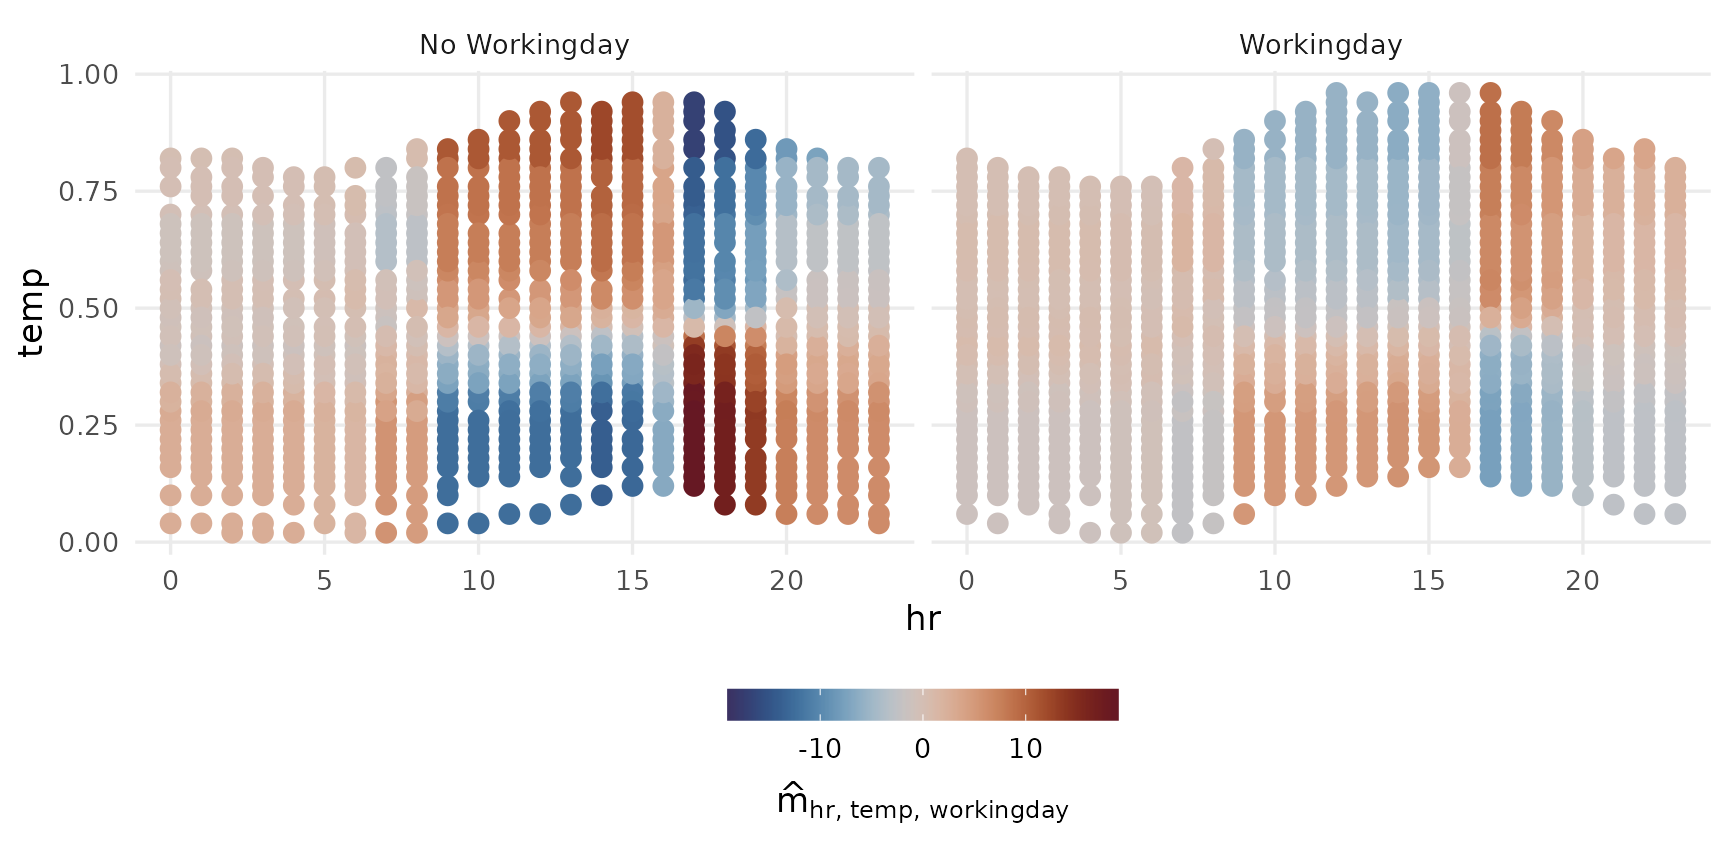
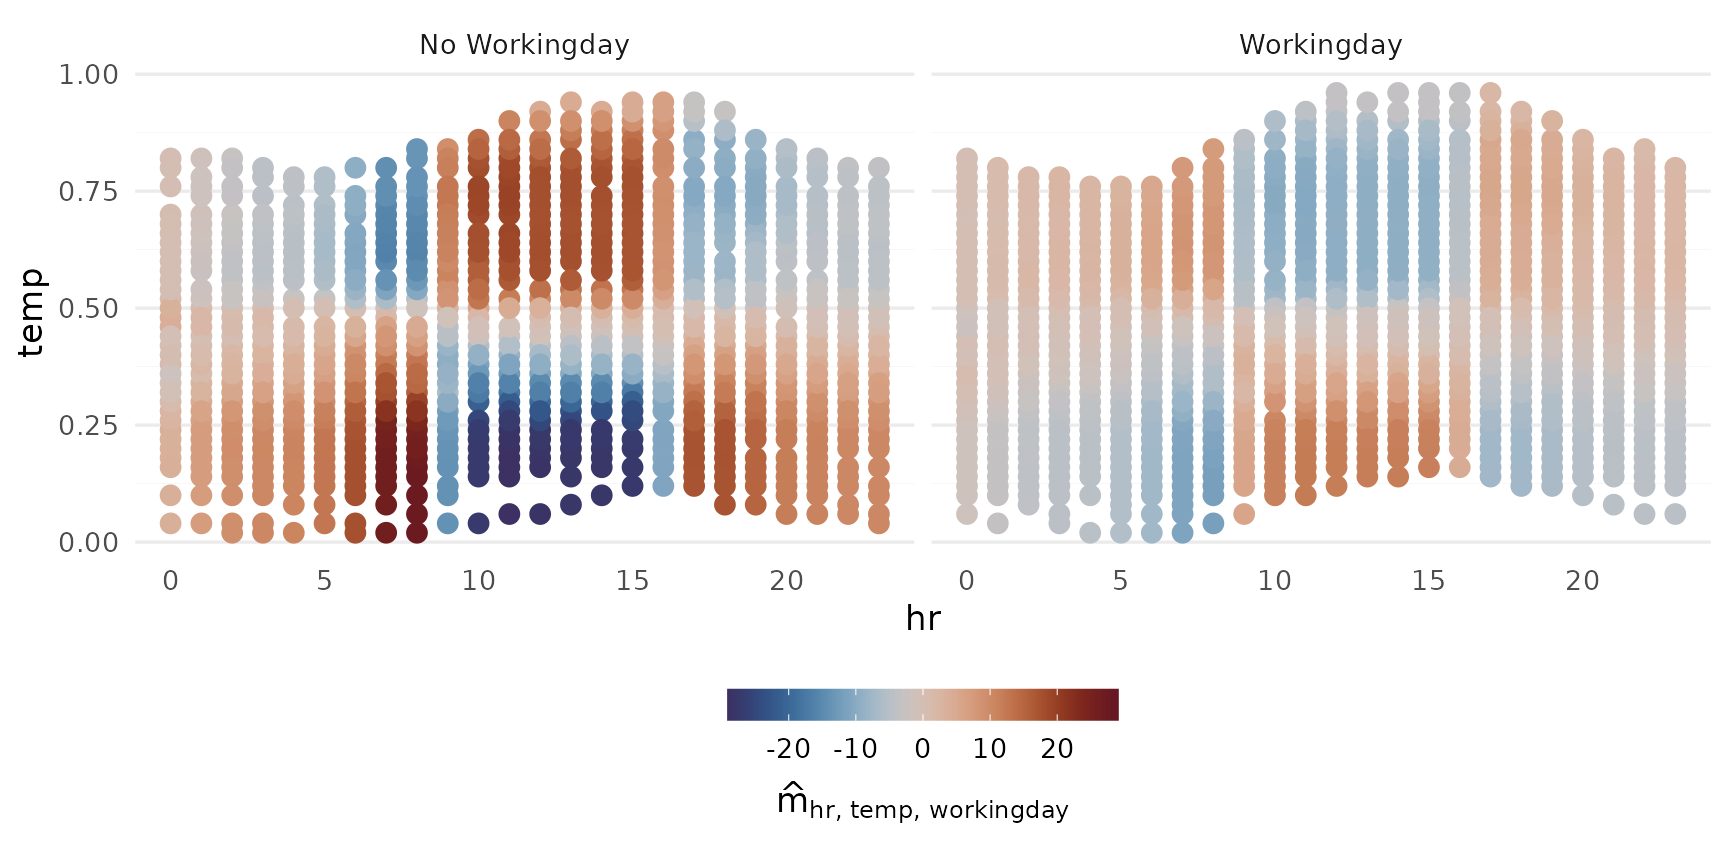
Deploying to gh-pages from @ PlantedML/glex@350e0cbe3e883f785f212828ad2df5d293eec9a5 🚀

diff --git a/reference/theme_glex.html b/reference/theme_glex.html
@@ -1,0 +1,131 @@
+<!DOCTYPE html>
+<!-- Generated by pkgdown: do not edit by hand --><html lang="en"><head><meta http-equiv="Content-Type" content="text/html; charset=UTF-8"><meta charset="utf-8"><meta http-equiv="X-UA-Compatible" content="IE=edge"><meta name="viewport" content="width=device-width, initial-scale=1, shrink-to-fit=no"><meta name="description" content="This is a slight variation of ggplot2::theme_minimal() with increased font size."><title>A ggplot2 theme for glex plots — theme_glex • glex</title><script src="../deps/jquery-3.6.0/jquery-3.6.0.min.js"></script><meta name="viewport" content="width=device-width, initial-scale=1, shrink-to-fit=no"><link href="../deps/bootstrap-5.2.2/bootstrap.min.css" rel="stylesheet"><script src="../deps/bootstrap-5.2.2/bootstrap.bundle.min.js"></script><!-- Font Awesome icons --><link rel="stylesheet" href="https://cdnjs.cloudflare.com/ajax/libs/font-awesome/5.12.1/css/all.min.css" integrity="sha256-mmgLkCYLUQbXn0B1SRqzHar6dCnv9oZFPEC1g1cwlkk=" crossorigin="anonymous"><link rel="stylesheet" href="https://cdnjs.cloudflare.com/ajax/libs/font-awesome/5.12.1/css/v4-shims.min.css" integrity="sha256-wZjR52fzng1pJHwx4aV2AO3yyTOXrcDW7jBpJtTwVxw=" crossorigin="anonymous"><!-- bootstrap-toc --><script src="https://cdn.jsdelivr.net/gh/afeld/bootstrap-toc@v1.0.1/dist/bootstrap-toc.min.js" integrity="sha256-4veVQbu7//Lk5TSmc7YV48MxtMy98e26cf5MrgZYnwo=" crossorigin="anonymous"></script><!-- headroom.js --><script src="https://cdnjs.cloudflare.com/ajax/libs/headroom/0.11.0/headroom.min.js" integrity="sha256-AsUX4SJE1+yuDu5+mAVzJbuYNPHj/WroHuZ8Ir/CkE0=" crossorigin="anonymous"></script><script src="https://cdnjs.cloudflare.com/ajax/libs/headroom/0.11.0/jQuery.headroom.min.js" integrity="sha256-ZX/yNShbjqsohH1k95liqY9Gd8uOiE1S4vZc+9KQ1K4=" crossorigin="anonymous"></script><!-- clipboard.js --><script src="https://cdnjs.cloudflare.com/ajax/libs/clipboard.js/2.0.6/clipboard.min.js" integrity="sha256-inc5kl9MA1hkeYUt+EC3BhlIgyp/2jDIyBLS6k3UxPI=" crossorigin="anonymous"></script><!-- search --><script src="https://cdnjs.cloudflare.com/ajax/libs/fuse.js/6.4.6/fuse.js" integrity="sha512-zv6Ywkjyktsohkbp9bb45V6tEMoWhzFzXis+LrMehmJZZSys19Yxf1dopHx7WzIKxr5tK2dVcYmaCk2uqdjF4A==" crossorigin="anonymous"></script><script src="https://cdnjs.cloudflare.com/ajax/libs/autocomplete.js/0.38.0/autocomplete.jquery.min.js" integrity="sha512-GU9ayf+66Xx2TmpxqJpliWbT5PiGYxpaG8rfnBEk1LL8l1KGkRShhngwdXK1UgqhAzWpZHSiYPc09/NwDQIGyg==" crossorigin="anonymous"></script><script src="https://cdnjs.cloudflare.com/ajax/libs/mark.js/8.11.1/mark.min.js" integrity="sha512-5CYOlHXGh6QpOFA/TeTylKLWfB3ftPsde7AnmhuitiTX4K5SqCLBeKro6sPS8ilsz1Q4NRx3v8Ko2IBiszzdww==" crossorigin="anonymous"></script><!-- pkgdown --><script src="../pkgdown.js"></script><meta property="og:title" content="A ggplot2 theme for glex plots — theme_glex"><meta property="og:description" content="This is a slight variation of ggplot2::theme_minimal() with increased font size."><!-- mathjax --><script src="https://cdnjs.cloudflare.com/ajax/libs/mathjax/2.7.5/MathJax.js" integrity="sha256-nvJJv9wWKEm88qvoQl9ekL2J+k/RWIsaSScxxlsrv8k=" crossorigin="anonymous"></script><script src="https://cdnjs.cloudflare.com/ajax/libs/mathjax/2.7.5/config/TeX-AMS-MML_HTMLorMML.js" integrity="sha256-84DKXVJXs0/F8OTMzX4UR909+jtl4G7SPypPavF+GfA=" crossorigin="anonymous"></script><!--[if lt IE 9]>
+<script src="https://oss.maxcdn.com/html5shiv/3.7.3/html5shiv.min.js"></script>
+<script src="https://oss.maxcdn.com/respond/1.4.2/respond.min.js"></script>
+<![endif]--></head><body>
+    <a href="#main" class="visually-hidden-focusable">Skip to contents</a>
+    
+
+    <nav class="navbar fixed-top navbar-light navbar-expand-lg bg-light"><div class="container">
+    
+    <a class="navbar-brand me-2" href="../index.html">glex</a>
+
+    <small class="nav-text text-muted me-auto" data-bs-toggle="tooltip" data-bs-placement="bottom" title="">0.3.0.9000</small>
+
+    
+    <button class="navbar-toggler" type="button" data-bs-toggle="collapse" data-bs-target="#navbar" aria-controls="navbar" aria-expanded="false" aria-label="Toggle navigation">
+      <span class="navbar-toggler-icon"></span>
+    </button>
+
+    <div id="navbar" class="collapse navbar-collapse ms-3">
+      <ul class="navbar-nav me-auto"><li class="nav-item">
+  <a class="nav-link" href="../articles/glex.html">Get started</a>
+</li>
+<li class="active nav-item">
+  <a class="nav-link" href="../reference/index.html">Reference</a>
+</li>
+<li class="nav-item dropdown">
+  <a href="#" class="nav-link dropdown-toggle" data-bs-toggle="dropdown" role="button" aria-expanded="false" aria-haspopup="true" id="dropdown-articles">Articles</a>
+  <div class="dropdown-menu" aria-labelledby="dropdown-articles">
+    <a class="dropdown-item" href="../articles/Bikesharing-Decomposition-rpf.html">Bikesharing: Decomposition with Random Planted Forest</a>
+  </div>
+</li>
+<li class="nav-item">
+  <a class="nav-link" href="../news/index.html">Changelog</a>
+</li>
+      </ul><form class="form-inline my-2 my-lg-0" role="search">
+        <input type="search" class="form-control me-sm-2" aria-label="Toggle navigation" name="search-input" data-search-index="../search.json" id="search-input" placeholder="Search for" autocomplete="off"></form>
+
+      <ul class="navbar-nav"><li class="nav-item">
+  <a class="external-link nav-link" href="https://github.com/PlantedML/glex/" aria-label="github">
+    <span class="fab fa fab fa-github fa-lg"></span>
+     
+  </a>
+</li>
+      </ul></div>
+
+    
+  </div>
+</nav><div class="container template-reference-topic">
+<div class="row">
+  <main id="main" class="col-md-9"><div class="page-header">
+      <img src="" class="logo" alt=""><h1>A ggplot2 theme for glex plots</h1>
+      <small class="dont-index">Source: <a href="https://github.com/PlantedML/glex/blob/HEAD/R/theme_glex.R" class="external-link"><code>R/theme_glex.R</code></a></small>
+      <div class="d-none name"><code>theme_glex.Rd</code></div>
+    </div>
+
+    <div class="ref-description section level2">
+    <p>This is a slight variation of <code><a href="https://ggplot2.tidyverse.org/reference/ggtheme.html" class="external-link">ggplot2::theme_minimal()</a></code> with increased font size.</p>
+    </div>
+
+    <div class="section level2">
+    <h2 id="ref-usage">Usage<a class="anchor" aria-label="anchor" href="#ref-usage"></a></h2>
+    <div class="sourceCode"><pre class="sourceCode r"><code><span><span class="fu">theme_glex</span><span class="op">(</span></span>
+<span>  base_size <span class="op">=</span> <span class="fl">13</span>,</span>
+<span>  base_family <span class="op">=</span> <span class="st">""</span>,</span>
+<span>  base_line_size <span class="op">=</span> <span class="va">base_size</span><span class="op">/</span><span class="fl">22</span>,</span>
+<span>  base_rect_size <span class="op">=</span> <span class="va">base_size</span><span class="op">/</span><span class="fl">22</span>,</span>
+<span>  grid_x <span class="op">=</span> <span class="cn">TRUE</span>,</span>
+<span>  grid_y <span class="op">=</span> <span class="cn">FALSE</span></span>
+<span><span class="op">)</span></span></code></pre></div>
+    </div>
+
+    <div class="section level2">
+    <h2 id="arguments">Arguments<a class="anchor" aria-label="anchor" href="#arguments"></a></h2>
+    <dl><dt>base_size</dt>
+<dd><p>(<code>13</code>) Base font size, given in pts.</p></dd>
+
+
+<dt>base_family</dt>
+<dd><p>(<code>""</code>) Base font family</p></dd>
+
+
+<dt>base_line_size, base_rect_size</dt>
+<dd><p>(<code>base_size / 22</code>) Base size for line and rect elements</p></dd>
+
+
+<dt>grid_x</dt>
+<dd><p>(<code>TRUE</code>) Display horizontal grid lines?</p></dd>
+
+
+<dt>grid_y</dt>
+<dd><p>(<code>FALSE</code>) Display vertical grid lines?</p></dd>
+
+</dl></div>
+    <div class="section level2">
+    <h2 id="value">Value<a class="anchor" aria-label="anchor" href="#value"></a></h2>
+    
+
+<p>A <code>ggplot2</code> theme object</p>
+    </div>
+
+    <div class="section level2">
+    <h2 id="ref-examples">Examples<a class="anchor" aria-label="anchor" href="#ref-examples"></a></h2>
+    <div class="sourceCode"><pre class="sourceCode r"><code><span class="r-in"><span><span class="kw"><a href="https://rdrr.io/r/base/library.html" class="external-link">library</a></span><span class="op">(</span><span class="va"><a href="https://ggplot2.tidyverse.org" class="external-link">ggplot2</a></span><span class="op">)</span></span></span>
+<span class="r-in"><span></span></span>
+<span class="r-in"><span><span class="fu"><a href="https://ggplot2.tidyverse.org/reference/ggplot.html" class="external-link">ggplot</a></span><span class="op">(</span><span class="va">mtcars</span>, <span class="fu"><a href="https://ggplot2.tidyverse.org/reference/aes.html" class="external-link">aes</a></span><span class="op">(</span><span class="va">wt</span>, <span class="va">mpg</span><span class="op">)</span><span class="op">)</span> <span class="op">+</span></span></span>
+<span class="r-in"><span>  <span class="fu"><a href="https://ggplot2.tidyverse.org/reference/geom_point.html" class="external-link">geom_point</a></span><span class="op">(</span><span class="op">)</span> <span class="op">+</span></span></span>
+<span class="r-in"><span>  <span class="fu">theme_glex</span><span class="op">(</span><span class="op">)</span></span></span>
+<span class="r-plt img"><img src="theme_glex-1.png" alt="" width="700" height="433"></span>
+</code></pre></div>
+    </div>
+  </main><aside class="col-md-3"><nav id="toc"><h2>On this page</h2>
+    </nav></aside></div>
+
+
+    <footer><div class="pkgdown-footer-left">
+  <p></p><p>Developed by Marvin N. Wright, Joseph Theo Meyer, Munir Hiabu, Lukas Burk.</p>
+</div>
+
+<div class="pkgdown-footer-right">
+  <p></p><p>Site built with <a href="https://pkgdown.r-lib.org/" class="external-link">pkgdown</a> 2.0.7.</p>
+</div>
+
+    </footer></div>
+
+  
+
+  
+
+  </body></html>
+

diff --git a/articles/Bikesharing-Decomposition-rpf.html b/articles/Bikesharing-Decomposition-rpf.html
@@ -90,15 +90,7 @@
 <span><span class="kw"><a href="https://rdrr.io/r/base/library.html" class="external-link">library</a></span><span class="op">(</span><span class="va"><a href="https://www.statlearning.com" class="external-link">ISLR2</a></span><span class="op">)</span> <span class="co"># For Bikeshare dataset</span></span>
 <span><span class="kw"><a href="https://rdrr.io/r/base/library.html" class="external-link">library</a></span><span class="op">(</span><span class="va"><a href="https://ggplot2.tidyverse.org" class="external-link">ggplot2</a></span><span class="op">)</span></span>
 <span><span class="kw"><a href="https://rdrr.io/r/base/library.html" class="external-link">library</a></span><span class="op">(</span><span class="va"><a href="https://patchwork.data-imaginist.com" class="external-link">patchwork</a></span><span class="op">)</span> <span class="co"># To arrange plots</span></span>
-<span><span class="fu"><a href="https://rdrr.io/r/base/Random.html" class="external-link">set.seed</a></span><span class="op">(</span><span class="fl">2023</span><span class="op">)</span></span>
-<span></span>
-<span><span class="fu"><a href="https://ggplot2.tidyverse.org/reference/theme_get.html" class="external-link">theme_set</a></span><span class="op">(</span></span>
-<span>  <span class="fu"><a href="https://ggplot2.tidyverse.org/reference/ggtheme.html" class="external-link">theme_minimal</a></span><span class="op">(</span>base_size <span class="op">=</span> <span class="fl">13</span><span class="op">)</span> <span class="op">+</span></span>
-<span>  <span class="fu"><a href="https://ggplot2.tidyverse.org/reference/theme.html" class="external-link">theme</a></span><span class="op">(</span></span>
-<span>    panel.grid.minor.x <span class="op">=</span> <span class="fu"><a href="https://ggplot2.tidyverse.org/reference/element.html" class="external-link">element_blank</a></span><span class="op">(</span><span class="op">)</span>,</span>
-<span>    panel.grid.minor.y <span class="op">=</span> <span class="fu"><a href="https://ggplot2.tidyverse.org/reference/element.html" class="external-link">element_blank</a></span><span class="op">(</span><span class="op">)</span></span>
-<span>  <span class="op">)</span></span>
-<span><span class="op">)</span></span></code></pre></div>
+<span><span class="fu"><a href="https://rdrr.io/r/base/Random.html" class="external-link">set.seed</a></span><span class="op">(</span><span class="fl">2023</span><span class="op">)</span></span></code></pre></div>
 <div class="section level2">
 <h2 id="preparing-the-data">Preparing the Data<a class="anchor" aria-label="anchor" href="#preparing-the-data"></a>
 </h2>
@@ -169,7 +161,7 @@ is implemented as a separate step.</p>
 <code class="sourceCode R"><span><span class="va">rp</span> <span class="op">&lt;-</span> <span class="fu"><a href="http://plantedml.com/randomPlantedForest/reference/rpf.html" class="external-link">rpf</a></span><span class="op">(</span></span>
 <span>  <span class="va">bikers</span> <span class="op">~</span> <span class="va">day</span> <span class="op">+</span> <span class="va">hr</span> <span class="op">+</span> <span class="va">temp</span> <span class="op">+</span> <span class="va">windspeed</span> <span class="op">+</span> <span class="va">workingday</span> <span class="op">+</span> <span class="va">hum</span> <span class="op">+</span> <span class="va">weathersit</span> <span class="op">+</span> <span class="va">season</span>,</span>
 <span>  data <span class="op">=</span> <span class="va">bike</span>,</span>
-<span>  max_interaction <span class="op">=</span> <span class="fl">3</span>, ntrees <span class="op">=</span> <span class="fl">30</span></span>
+<span>  max_interaction <span class="op">=</span> <span class="fl">3</span>, ntrees <span class="op">=</span> <span class="fl">50</span>, splits <span class="op">=</span> <span class="fl">100</span>, t_try <span class="op">=</span> <span class="fl">0.9</span>, split_try <span class="op">=</span> <span class="fl">5</span></span>
 <span><span class="op">)</span></span>
 <span></span>
 <span><span class="fu"><a href="http://plantedml.com/randomPlantedForest/reference/purify.html" class="external-link">purify</a></span><span class="op">(</span><span class="va">rp</span><span class="op">)</span></span>
@@ -182,11 +174,11 @@ is implemented as a separate step.</p>
 <span><span class="co">#&gt; Called with parameters:</span></span>
 <span><span class="co">#&gt; </span></span>
 <span><span class="co">#&gt;             loss: L2</span></span>
-<span><span class="co">#&gt;           ntrees: 30</span></span>
+<span><span class="co">#&gt;           ntrees: 50</span></span>
 <span><span class="co">#&gt;  max_interaction: 3</span></span>
-<span><span class="co">#&gt;           splits: 30</span></span>
-<span><span class="co">#&gt;        split_try: 10</span></span>
-<span><span class="co">#&gt;            t_try: 0.4</span></span>
+<span><span class="co">#&gt;           splits: 100</span></span>
+<span><span class="co">#&gt;        split_try: 5</span></span>
+<span><span class="co">#&gt;            t_try: 0.9</span></span>
 <span><span class="co">#&gt;            delta: 0</span></span>
 <span><span class="co">#&gt;          epsilon: 0.1</span></span>
 <span><span class="co">#&gt;    deterministic: FALSE</span></span>
@@ -206,19 +198,19 @@ visualization.</p>
 <span><span class="co"># There's a lot of components...</span></span>
 <span><span class="fu"><a href="https://rdrr.io/r/utils/str.html" class="external-link">str</a></span><span class="op">(</span><span class="va">components</span><span class="op">$</span><span class="va">m</span>, list.len <span class="op">=</span> <span class="fl">8</span><span class="op">)</span></span>
 <span><span class="co">#&gt; Classes 'data.table' and 'data.frame':   8644 obs. of  92 variables:</span></span>
-<span><span class="co">#&gt;  $ day                            : num  -37 -37 -37 -37 -37 ...</span></span>
-<span><span class="co">#&gt;  $ hr                             : num  -120 -120 -121 -121 -121 ...</span></span>
-<span><span class="co">#&gt;  $ temp                           : num  -35.3 -35.3 -35.3 -35.3 -35.3 ...</span></span>
-<span><span class="co">#&gt;  $ windspeed                      : num  0.00277 0.00277 0.00277 0.00277 0.00277 ...</span></span>
-<span><span class="co">#&gt;  $ workingday                     : num  1.37 1.37 1.37 1.37 1.37 ...</span></span>
-<span><span class="co">#&gt;  $ hum                            : num  -11.42 -10.35 -10.35 -1.44 -1.44 ...</span></span>
-<span><span class="co">#&gt;  $ weathersit                     : num  4.09 4.09 4.09 4.09 4.09 ...</span></span>
-<span><span class="co">#&gt;  $ season                         : num  -25.2 -25.2 -25.2 -25.2 -25.2 ...</span></span>
+<span><span class="co">#&gt;  $ day                            : num  -44.6 -44.6 -44.6 -44.6 -44.6 ...</span></span>
+<span><span class="co">#&gt;  $ hr                             : num  -103 -117 -126 -133 -133 ...</span></span>
+<span><span class="co">#&gt;  $ temp                           : num  -38.6 -39.5 -39.5 -38.6 -38.6 ...</span></span>
+<span><span class="co">#&gt;  $ windspeed                      : num  1.74 1.74 1.74 1.74 1.74 ...</span></span>
+<span><span class="co">#&gt;  $ workingday                     : num  0.48 0.48 0.48 0.48 0.48 ...</span></span>
+<span><span class="co">#&gt;  $ hum                            : num  -14.95 -14.26 -14.26 -4.95 -4.95 ...</span></span>
+<span><span class="co">#&gt;  $ weathersit                     : num  4.16 4.16 4.16 4.16 4.16 ...</span></span>
+<span><span class="co">#&gt;  $ season                         : num  -20.3 -20.3 -20.3 -20.3 -20.3 ...</span></span>
 <span><span class="co">#&gt;   [list output truncated]</span></span>
 <span><span class="co">#&gt;  - attr(*, ".internal.selfref")=&lt;externalptr&gt;</span></span></code></pre></div>
 <p>Please note that fitting the model, purification, and the extraction
 of the components may take some time, depending on available resources
-and the size of the data. For example, the above steps took around 30
+and the size of the data. For example, the above steps took around 280
 seconds to complete on GitHub Actions.</p>
 </div>
 <div class="section level2">
@@ -304,7 +296,7 @@ all.</p>
 <code class="sourceCode R"><span><span class="fu"><a href="https://ggplot2.tidyverse.org/reference/autoplot.html" class="external-link">autoplot</a></span><span class="op">(</span><span class="va">components</span>, <span class="fu"><a href="https://rdrr.io/r/base/c.html" class="external-link">c</a></span><span class="op">(</span><span class="st">"workingday"</span>, <span class="st">"hr"</span>, <span class="st">"season"</span><span class="op">)</span><span class="op">)</span></span></code></pre></div>
 <p><img src="Bikesharing-Decomposition-rpf_files/figure-html/unnamed-chunk-5-2.png" width="864" style="display: block; margin: auto;"></p>
 <div class="sourceCode" id="cb17"><pre class="downlit sourceCode r">
-<code class="sourceCode R"><span><span class="co"># Hard to interpret, likely spurious</span></span>
+<code class="sourceCode R"><span><span class="co"># Hard to interpret</span></span>
 <span><span class="fu"><a href="https://ggplot2.tidyverse.org/reference/autoplot.html" class="external-link">autoplot</a></span><span class="op">(</span><span class="va">components</span>, <span class="fu"><a href="https://rdrr.io/r/base/c.html" class="external-link">c</a></span><span class="op">(</span><span class="st">"workingday"</span>, <span class="st">"hr"</span>, <span class="st">"weathersit"</span><span class="op">)</span><span class="op">)</span></span></code></pre></div>
 <p><img src="Bikesharing-Decomposition-rpf_files/figure-html/unnamed-chunk-5-3.png" width="864" style="display: block; margin: auto;"></p>
 <div class="sourceCode" id="cb18"><pre class="downlit sourceCode r">

diff --git a/reference/glex.html b/reference/glex.html
@@ -132,14 +132,14 @@ with <code>:</code> separating interaction terms as one would specify in a <code
 <span class="r-in"><span><span class="op">}</span></span></span>
 <span class="r-out co"><span class="r-pr">#&gt;</span> List of 3</span>
 <span class="r-out co"><span class="r-pr">#&gt;</span>  $ m        :Classes ‘data.table’ and 'data.frame':	6 obs. of  55 variables:</span>
-<span class="r-out co"><span class="r-pr">#&gt;</span>   ..$ cyl      : num [1:6] 0.867 0.867 -0.473 -0.383 -0.473 ...</span>
-<span class="r-out co"><span class="r-pr">#&gt;</span>   ..$ disp     : num [1:6] 0.819 2.824 -1.065 0.524 -0.813 ...</span>
-<span class="r-out co"><span class="r-pr">#&gt;</span>   ..$ hp       : num [1:6] 2.303 0.343 -1.796 -0.374 -1.796 ...</span>
-<span class="r-out co"><span class="r-pr">#&gt;</span>   ..$ drat     : num [1:6] 0.9849 -0.13081 0.9849 -0.00228 -0.00228 ...</span>
-<span class="r-out co"><span class="r-pr">#&gt;</span>   ..$ wt       : num [1:6] 3.151 3.049 0.38 0.438 -1.017 ...</span>
+<span class="r-out co"><span class="r-pr">#&gt;</span>   ..$ cyl      : num [1:6] 0.417 0.417 -0.285 -0.139 -0.285 ...</span>
+<span class="r-out co"><span class="r-pr">#&gt;</span>   ..$ disp     : num [1:6] 0.232 2.401 -0.996 0.144 -0.766 ...</span>
+<span class="r-out co"><span class="r-pr">#&gt;</span>   ..$ hp       : num [1:6] 2.797 0.14 -2.228 -0.408 -2.228 ...</span>
+<span class="r-out co"><span class="r-pr">#&gt;</span>   ..$ drat     : num [1:6] 2.621 -0.11 2.621 -0.133 -0.133 ...</span>
+<span class="r-out co"><span class="r-pr">#&gt;</span>   ..$ wt       : num [1:6] 2.044 1.922 0.939 0.938 -1.154 ...</span>
 <span class="r-out co"><span class="r-pr">#&gt;</span>   .. [list output truncated]</span>
 <span class="r-out co"><span class="r-pr">#&gt;</span>   ..- attr(*, ".internal.selfref")=&lt;externalptr&gt; </span>
-<span class="r-out co"><span class="r-pr">#&gt;</span>  $ intercept: num 20.1</span>
+<span class="r-out co"><span class="r-pr">#&gt;</span>  $ intercept: num 19.9</span>
 <span class="r-out co"><span class="r-pr">#&gt;</span>  $ x        :Classes ‘data.table’ and 'data.frame':	6 obs. of  10 variables:</span>
 <span class="r-out co"><span class="r-pr">#&gt;</span>   ..$ cyl : num [1:6] 4 4 8 6 8 4</span>
 <span class="r-out co"><span class="r-pr">#&gt;</span>   ..$ disp: num [1:6] 120.3 95.1 351 145 301 ...</span>

diff --git a/news/index.html b/news/index.html
@@ -55,8 +55,10 @@
 
     <div class="section level2">
 <h2 class="pkg-version" data-toc-text="0.3.0.9000" id="glex-0309000-development-version">glex 0.3.0.9000 (Development version)<a class="anchor" aria-label="anchor" href="#glex-0309000-development-version"></a></h2>
-<ul><li>Add <code><a href="../reference/subset_components.html">subset_components()</a></code> and <code><a href="../reference/subset_components.html">subset_component_names()</a></code> to make it easier to extract only components belonging to a given main term.</li>
-<li>Add preprocessed version of <code>Bikeshare</code> data from <code>ISLR2</code> to streamlined examples.</li>
+<ul><li>Add <code><a href="../reference/theme_glex.html">theme_glex()</a></code> as a default theme to all plots.<br>
+This is almost identical to [<code><a href="https://ggplot2.tidyverse.org/reference/ggtheme.html" class="external-link">ggplot2::theme_minimal()</a></code>] aside from increased base font size and convenience flags to toggle vertical and horizontal grid lines.</li>
+<li>Add <code><a href="../reference/subset_components.html">subset_components()</a></code> and <code><a href="../reference/subset_components.html">subset_component_names()</a></code> to make it easier to extract only components belonging to a given main term.</li>
+<li>Add pre-processed version of <code>Bikeshare</code> data from <code>ISLR2</code> to streamlined examples.</li>
 <li>Add <code><a href="../reference/plot_pdp.html">plot_pdp()</a></code>, a version of <code><a href="../reference/plot_components.html">plot_main_effect()</a></code> with the intercept added.</li>
 <li>Limit <code>max_interaction</code> in <code>glex.xgb.Booster</code> to <code>max_depth</code> parameter of <code>xgboost</code> model. If <code>max_depth</code> is not set during model fit, the default value of <code>6</code> is assumed. This prevents <code>glex</code> from returning spurious higher-order interactions containing values numerically close to 0.</li>
 <li>Extend plot functions to multiclass classification. In most cases that means facetting by the target class.</li>

diff --git a/reference/index.html b/reference/index.html
@@ -125,6 +125,11 @@
           <code><a href="print.glex.html">print(<i>&lt;glex&gt;</i>)</a></code> 
         </dt>
         <dd>Print glex objects</dd>
+      </dl><dl><dt>
+          
+          <code><a href="theme_glex.html">theme_glex()</a></code> 
+        </dt>
+        <dd>A ggplot2 theme for glex plots</dd>
       </dl></div><div class="section level2">
       <h2 id="data">Data<a class="anchor" aria-label="anchor" href="#data"></a></h2>
       
